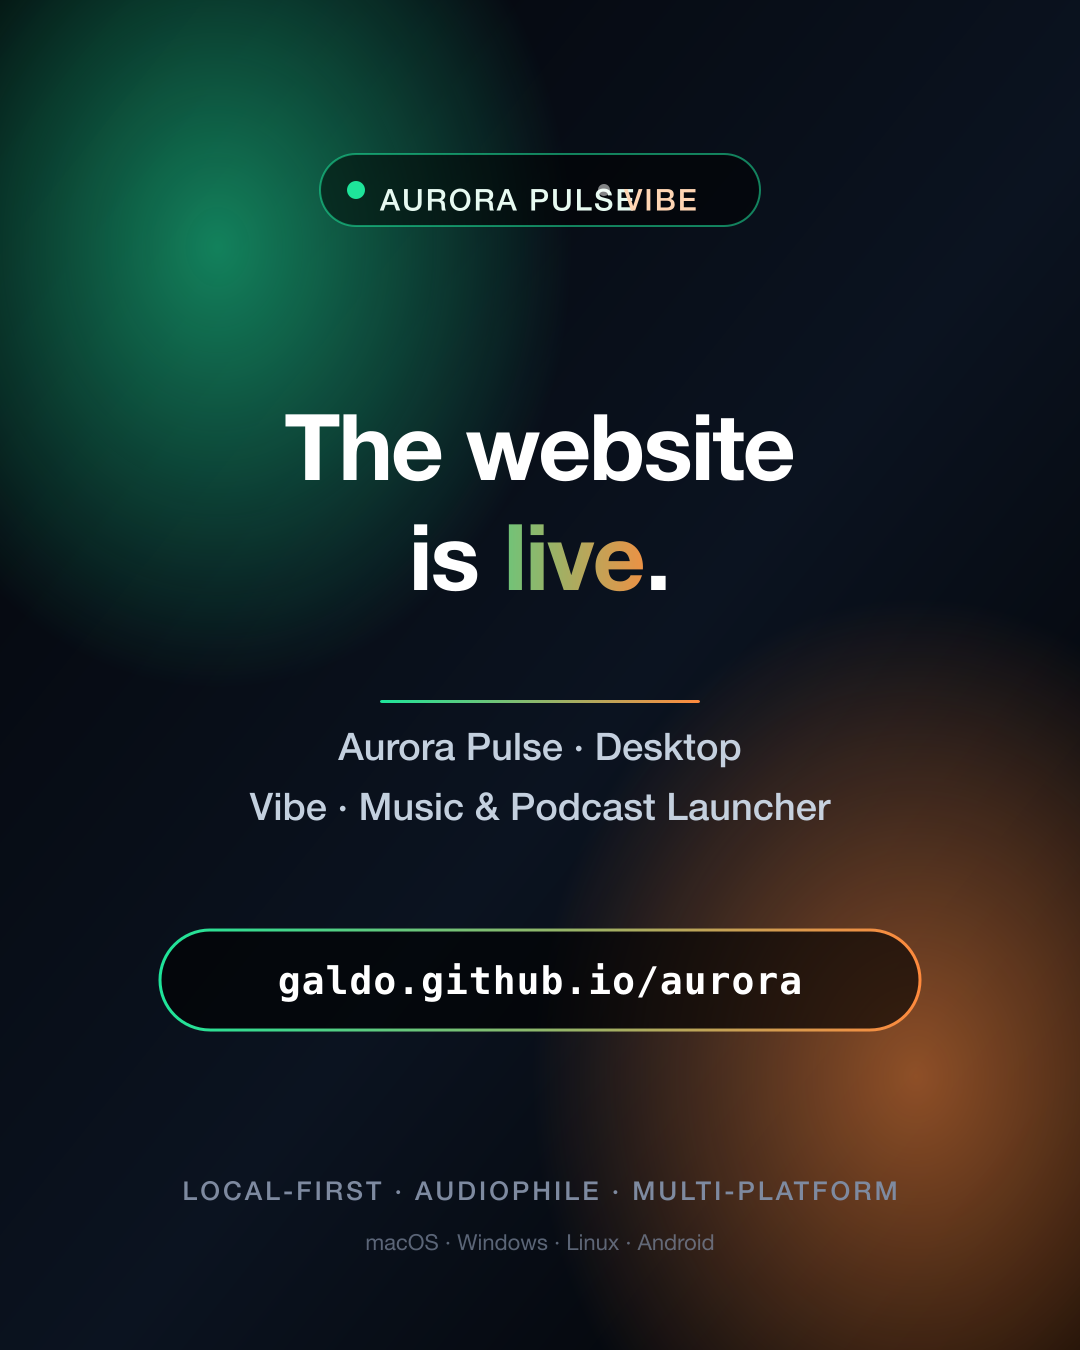
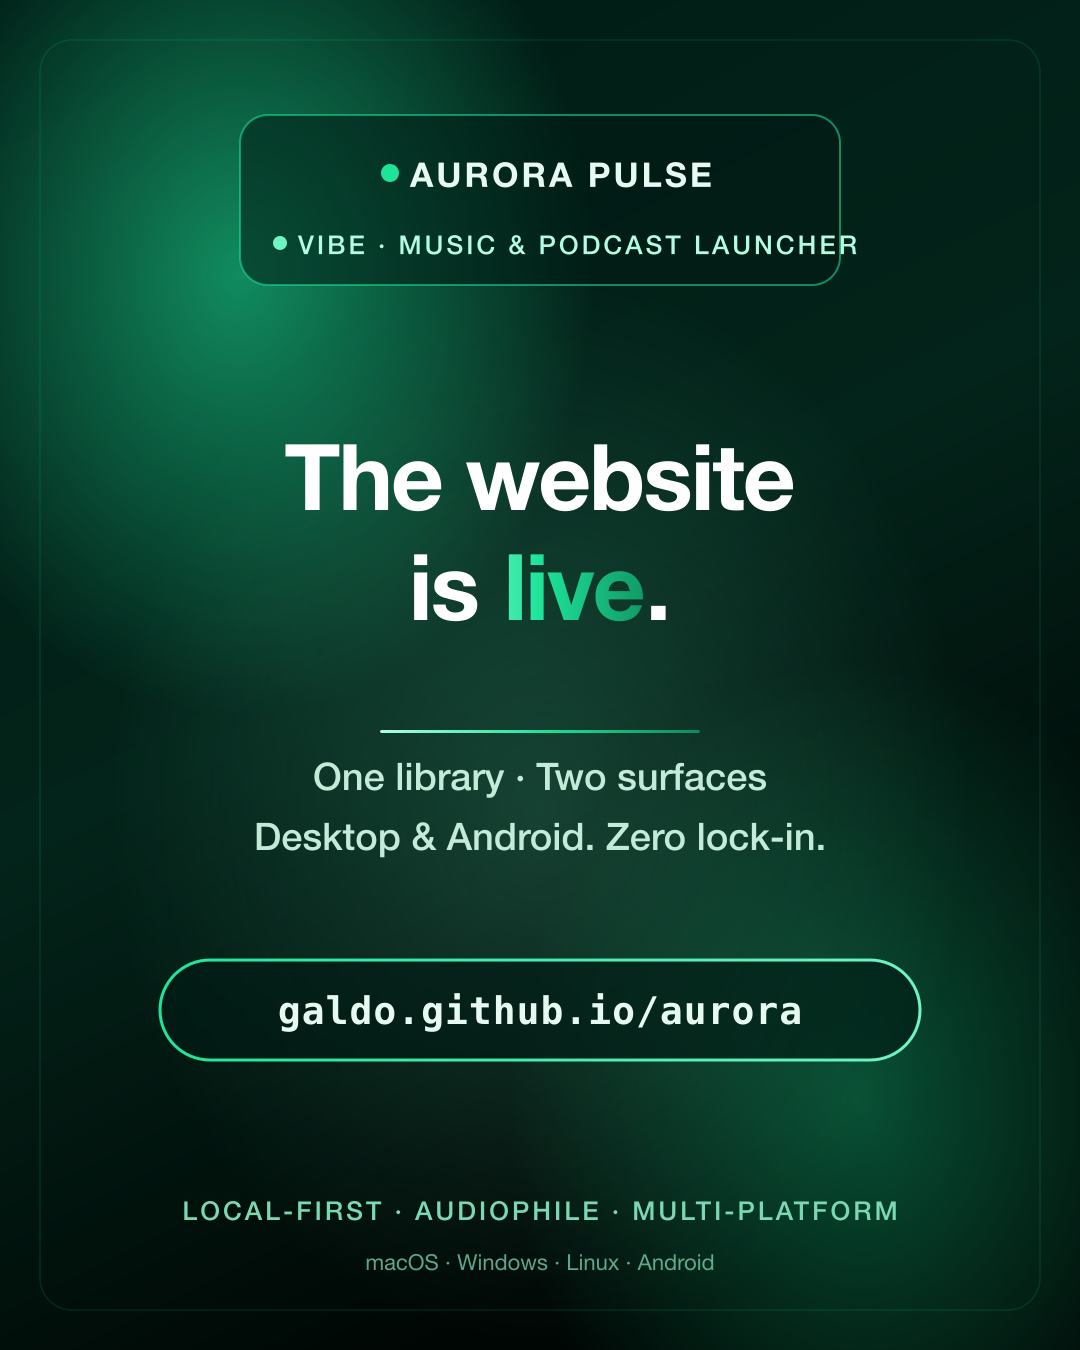
docs(news): rework news.png cover
- Stack 'AURORA PULSE' and 'VIBE · MUSIC & PODCAST LAUNCHER' on two
  separate rows in the brand pill so they no longer collide.
- Move palette to a strong green-only theme: deep emerald background
  with three differently shaded green glows (Aurora primary #1ee49a,
  base #0e8a5b, soft #6ff5c2). Headline gradient and pill border
  switched from green→orange to mint→primary→deep-green only.
- Updated subline to 'One library · Two surfaces / Desktop & Android.
  Zero lock-in.' to better match the website's positioning.

diff --git a/scripts/generate-news-cover.js b/scripts/generate-news-cover.js
@@ -2,8 +2,19 @@
 /* eslint-disable no-console */
 // Generates docs/news.png — a portrait cover (1080x1350) for the
 // "Aurora Pulse Website is live" news post.
-// Renders an SVG with the brand gradient + headline + URL and converts
-// it to PNG via the locally installed sharp from src/node_modules.
+//
+// Design notes (revision 2):
+// - Strong, green-only palette derived from Aurora Green #1ee49a:
+//     deep:    #001b14
+//     mid:     #073527
+//     base:    #0e8a5b
+//     primary: #1ee49a
+//     soft:    #6ff5c2
+//     mint:    #b3fbe1
+// - "AURORA PULSE" and "Vibe" are stacked on two separate lines
+//   (one above the other) so they no longer overlap visually, with
+//   their own colored dot markers.
+// - Headline + URL pill stay in green tones, no orange.
 const path = require('path');
 const fs = require('fs');
 
@@ -16,53 +27,85 @@ const H = 1350;
 const svg = `<?xml version="1.0" encoding="UTF-8"?>
 <svg xmlns="http://www.w3.org/2000/svg" width="${W}" height="${H}" viewBox="0 0 ${W} ${H}">
   <defs>
-    <linearGradient id="bg" x1="0" y1="0" x2="1" y2="1">
-      <stop offset="0%"  stop-color="#020408"/>
-      <stop offset="55%" stop-color="#0b1320"/>
-      <stop offset="100%" stop-color="#000000"/>
+    <!-- Background: deep emerald → near-black, all green family -->
+    <linearGradient id="bg" x1="0" y1="0" x2="0.4" y2="1">
+      <stop offset="0%"   stop-color="#001b14"/>
+      <stop offset="55%"  stop-color="#03241a"/>
+      <stop offset="100%" stop-color="#000604"/>
     </linearGradient>
-    <radialGradient id="glow1" cx="20%" cy="18%" r="55%">
+
+    <!-- Two green glows in different shades, both centered toward the
+         top-left and bottom-right to add depth without leaving the
+         green family. -->
+    <radialGradient id="glow1" cx="22%" cy="20%" r="60%">
       <stop offset="0%"  stop-color="#1ee49a" stop-opacity="0.55"/>
-      <stop offset="60%" stop-color="#1ee49a" stop-opacity="0"/>
+      <stop offset="55%" stop-color="#1ee49a" stop-opacity="0.0"/>
     </radialGradient>
-    <radialGradient id="glow2" cx="85%" cy="80%" r="55%">
-      <stop offset="0%"  stop-color="#ff8a3d" stop-opacity="0.55"/>
-      <stop offset="65%" stop-color="#ff8a3d" stop-opacity="0"/>
+    <radialGradient id="glow2" cx="80%" cy="82%" r="55%">
+      <stop offset="0%"  stop-color="#0e8a5b" stop-opacity="0.55"/>
+      <stop offset="60%" stop-color="#0e8a5b" stop-opacity="0.0"/>
     </radialGradient>
+    <radialGradient id="glow3" cx="50%" cy="60%" r="40%">
+      <stop offset="0%"  stop-color="#6ff5c2" stop-opacity="0.18"/>
+      <stop offset="100%" stop-color="#6ff5c2" stop-opacity="0"/>
+    </radialGradient>
+
+    <!-- Headline gradient — only green tones (mint → primary → deep) -->
     <linearGradient id="grad" x1="0" y1="0" x2="1" y2="0">
-      <stop offset="0%"  stop-color="#1ee49a"/>
-      <stop offset="100%" stop-color="#ff8a3d"/>
+      <stop offset="0%"   stop-color="#b3fbe1"/>
+      <stop offset="50%"  stop-color="#1ee49a"/>
+      <stop offset="100%" stop-color="#0e8a5b"/>
     </linearGradient>
-    <filter id="soft" x="-20%" y="-20%" width="140%" height="140%">
-      <feGaussianBlur stdDeviation="2"/>
-    </filter>
+
+    <!-- Pill border gradient -->
+    <linearGradient id="grad2" x1="0" y1="0" x2="1" y2="0">
+      <stop offset="0%"   stop-color="#1ee49a"/>
+      <stop offset="100%" stop-color="#6ff5c2"/>
+    </linearGradient>
   </defs>
 
-  <!-- background -->
+  <!-- Background stack -->
   <rect width="100%" height="100%" fill="url(#bg)"/>
   <rect width="100%" height="100%" fill="url(#glow1)"/>
   <rect width="100%" height="100%" fill="url(#glow2)"/>
+  <rect width="100%" height="100%" fill="url(#glow3)"/>
 
-  <!-- top brand pill -->
-  <g transform="translate(540, 200)" text-anchor="middle"
+  <!-- Subtle 1px green grid hint at the very edge to feel "audio
+       interface"-ish without being noisy -->
+  <rect x="40" y="40" width="${W - 80}" height="${H - 80}" rx="32" ry="32"
+        fill="none" stroke="#1ee49a" stroke-opacity="0.12" stroke-width="1.5"/>
+
+  <!-- Top brand block: TWO STACKED LINES (so they don't collide) -->
+  <g transform="translate(540, 175)" text-anchor="middle"
      font-family="-apple-system, BlinkMacSystemFont, 'SF Pro Display', 'Helvetica Neue', Arial, sans-serif"
-     fill="#ffffff">
-    <rect x="-220" y="-46" width="440" height="72" rx="36" ry="36"
-          fill="#000000" fill-opacity="0.5" stroke="#1ee49a" stroke-opacity="0.55" stroke-width="2"/>
-    <circle cx="-184" cy="-10" r="9" fill="#1ee49a"/>
-    <text x="-160" y="0" font-size="30" font-weight="600" letter-spacing="2"
-          fill="#e7faf1" dominant-baseline="middle" text-anchor="start">
-      AURORA  PULSE
-    </text>
-    <circle cx="64" cy="-10" r="6" fill="#ffffff" fill-opacity="0.5"/>
-    <text x="84" y="0" font-size="30" font-weight="600" letter-spacing="2"
-          fill="#ffd5b3" dominant-baseline="middle" text-anchor="start">
-      VIBE
-    </text>
+     fill="#e7faf1">
+
+    <!-- Frame around both rows -->
+    <rect x="-300" y="-60" width="600" height="170" rx="28" ry="28"
+          fill="#001b14" fill-opacity="0.55"
+          stroke="#1ee49a" stroke-opacity="0.55" stroke-width="2"/>
+
+    <!-- Row 1: AURORA PULSE -->
+    <g transform="translate(0, 0)">
+      <circle cx="-150" cy="-2" r="9" fill="#1ee49a"/>
+      <text x="-130" y="0" font-size="34" font-weight="700" letter-spacing="3"
+            fill="#e7faf1" dominant-baseline="middle" text-anchor="start">
+        AURORA  PULSE
+      </text>
+    </g>
+
+    <!-- Row 2: VIBE — Music & Podcast Launcher -->
+    <g transform="translate(0, 70)">
+      <circle cx="-260" cy="-2" r="7" fill="#6ff5c2"/>
+      <text x="-242" y="0" font-size="26" font-weight="500" letter-spacing="3"
+            fill="#b3fbe1" dominant-baseline="middle" text-anchor="start">
+        VIBE  ·  MUSIC  &amp;  PODCAST  LAUNCHER
+      </text>
+    </g>
   </g>
 
-  <!-- main headline -->
-  <g transform="translate(540, 480)" text-anchor="middle"
+  <!-- Main headline -->
+  <g transform="translate(540, 510)" text-anchor="middle"
      font-family="-apple-system, BlinkMacSystemFont, 'SF Pro Display', 'Helvetica Neue', Arial, sans-serif"
      fill="#ffffff">
     <text y="0"   font-size="92" font-weight="800" letter-spacing="-2">The website</text>
@@ -71,33 +114,33 @@ const svg = `<?xml version="1.0" encoding="UTF-8"?>
     </text>
   </g>
 
-  <!-- divider -->
-  <rect x="380" y="700" width="320" height="3" rx="2" ry="2" fill="url(#grad)"/>
+  <!-- Divider -->
+  <rect x="380" y="730" width="320" height="3" rx="2" ry="2" fill="url(#grad)"/>
 
-  <!-- subline -->
-  <g transform="translate(540, 760)" text-anchor="middle"
+  <!-- Subline -->
+  <g transform="translate(540, 790)" text-anchor="middle"
      font-family="-apple-system, BlinkMacSystemFont, 'SF Pro Display', 'Helvetica Neue', Arial, sans-serif"
-     fill="#cdd9e8">
-    <text y="0"  font-size="38" font-weight="500" opacity="0.95">Aurora Pulse · Desktop</text>
-    <text y="60" font-size="38" font-weight="500" opacity="0.95">Vibe · Music &amp; Podcast Launcher</text>
+     fill="#cdf3e2">
+    <text y="0"  font-size="38" font-weight="500" opacity="0.95">One library · Two surfaces</text>
+    <text y="60" font-size="38" font-weight="500" opacity="0.95">Desktop &amp; Android. Zero lock-in.</text>
   </g>
 
-  <!-- url badge -->
-  <g transform="translate(540, 980)" text-anchor="middle"
+  <!-- URL pill -->
+  <g transform="translate(540, 1010)" text-anchor="middle"
      font-family="ui-monospace, 'SF Mono', 'Cascadia Code', Menlo, Consolas, monospace"
-     fill="#ffffff">
+     fill="#e7faf1">
     <rect x="-380" y="-50" width="760" height="100" rx="50" ry="50"
-          fill="#000000" fill-opacity="0.6"
-          stroke="url(#grad)" stroke-width="3"/>
+          fill="#001b14" fill-opacity="0.65"
+          stroke="url(#grad2)" stroke-width="3"/>
     <text y="14" font-size="38" font-weight="700" letter-spacing="1">galdo.github.io/aurora</text>
   </g>
 
-  <!-- footer tag -->
-  <g transform="translate(540, 1200)" text-anchor="middle"
+  <!-- Footer tag -->
+  <g transform="translate(540, 1220)" text-anchor="middle"
      font-family="-apple-system, BlinkMacSystemFont, 'SF Pro Display', 'Helvetica Neue', Arial, sans-serif"
-     fill="#7e8aa0">
-    <text y="0"  font-size="26" font-weight="500" letter-spacing="3">LOCAL-FIRST · AUDIOPHILE · MULTI-PLATFORM</text>
-    <text y="50" font-size="22" font-weight="400" opacity="0.7">macOS · Windows · Linux · Android</text>
+     fill="#7ad9b3">
+    <text y="0"  font-size="26" font-weight="600" letter-spacing="3">LOCAL-FIRST · AUDIOPHILE · MULTI-PLATFORM</text>
+    <text y="50" font-size="22" font-weight="400" opacity="0.75">macOS · Windows · Linux · Android</text>
   </g>
 </svg>
 `;